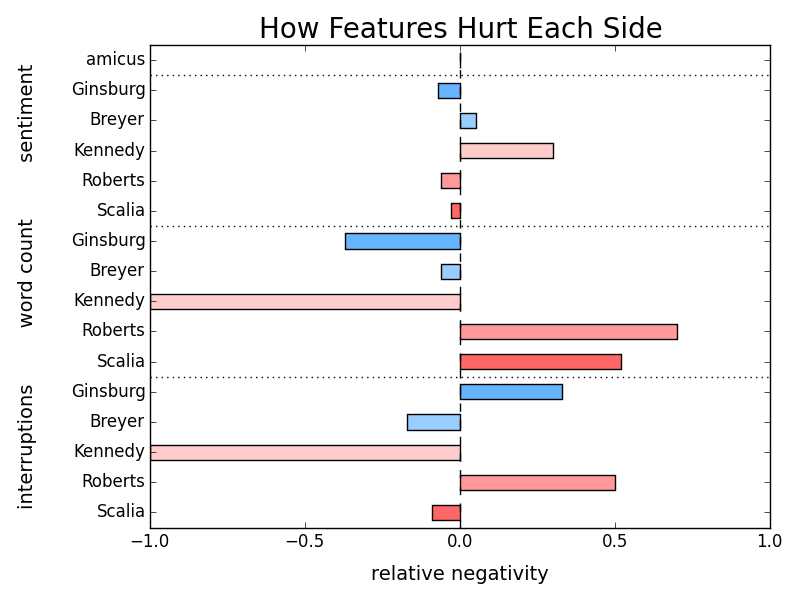
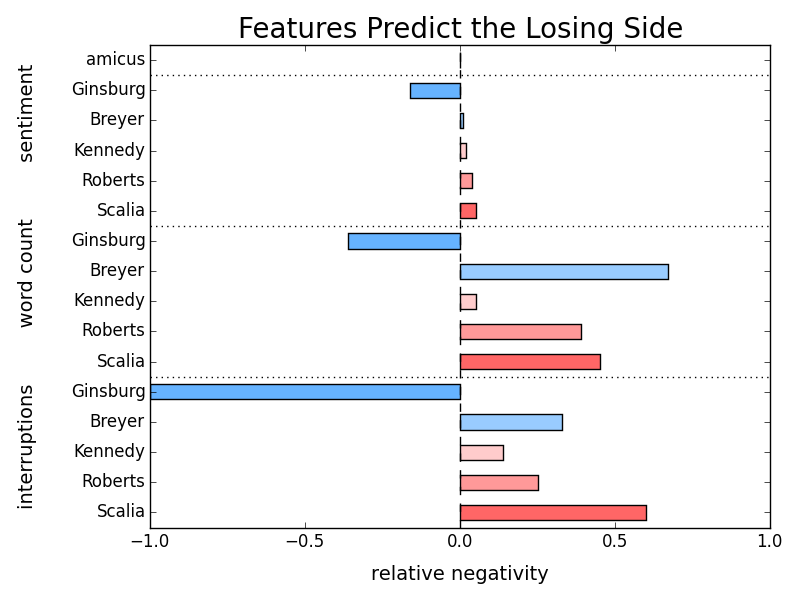
pretty datetime ar/dec dates. noeed to fix new dates.

diff --git a/db/app/views.py b/db/app/views.py
@@ -9,6 +9,7 @@ import matplotlib.pyplot as plt
 #import seaborn as sns
 from a_Model import ModelIt
 import socket
+import datetime
 
 def plot_features(df):
     ## Transpose the series
@@ -25,7 +26,7 @@ def plot_features(df):
     
     ## Create the plot
     df.plot(kind="barh", color=my_colors, legend=False, grid=False, xlim=(-1,1))
-    plt.title('How Features Hurt Each Side', fontdict={'fontsize':20})
+    plt.title('Features Predict the Losing Side', fontdict={'fontsize':20})
     plt.ylabel('interruptions         word count         sentiment      ', fontsize=14, labelpad=25, horizontalalignment='center')
     plt.xlabel('relative negativity', fontsize=14, labelpad=10)
     plt.axhline(14.5, color='k', linestyle = ':', linewidth=1.0)            
@@ -175,8 +176,8 @@ def scotus_output():
     pet_predict, res_predict = winlose(result[2].split('.')[0])
     pet_result, res_result = winlose(result[3].split('.')[0])
     pet_votes, res_votes = winloseVotes(result[2].split('.')[0], result[5], result[6])
-    arg_date = result[7]
-    dec_date = result[8]
+    arg_date = datetime.datetime.strptime(result[7], "%Y-%m-%d").strftime("%B %d, %Y")
+    dec_date = datetime.datetime.strptime(result[8], "%Y-%m-%d").strftime("%B %d, %Y")
     items.append({'docket':docket, 'pet_name':pet_name, 'res_name':res_name, 'pet_confidence':pet_confidence, 'res_confidence':res_confidence, 'pet_result':pet_result, 'res_result':res_result, 'pet_votes':pet_votes, 'res_votes':res_votes, 'arg_date':arg_date, 'dec_date':dec_date})
   #return render_template('scotus.html', items=items)
   the_result = ''
